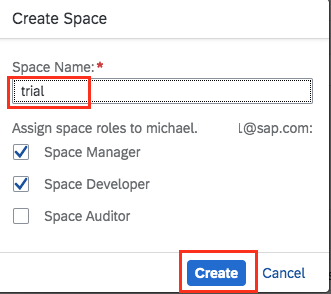
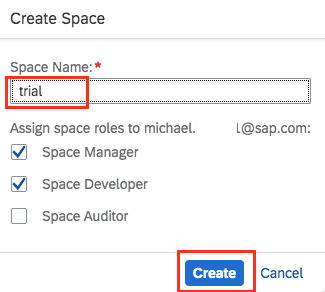
Update README; improve image cropping

diff --git a/README.md b/README.md
@@ -67,7 +67,7 @@ In the resulting popup, enter a **Display Name**,
 select the **Europe (Frankfurt) - AWS** region and enter
 a valid **subdomain** name. The name should be unique, so it is OK
 to be creative here. Once you entered all details, click the
-"create" button.
+"Create" button.
 
 ![SCP new subaccount details](images/scp_new_subaccount_details.png)
 
@@ -80,7 +80,7 @@ Click the "Enable Cloud Foundry" button.
 
 ![SCP enable Cloud Foundry](images/scp_enable_cloud_foundry.png)
 
-Accept the default org name:
+In the resulting popup, accept the default org name and click the "Create" button.
 
 ![SCP Cloud Foundry org name](images/scp_cloud_foundry_org_name.png)
 
@@ -88,7 +88,7 @@ Once Cloud Foundry is available, click the "Create Space" button:
 
 ![SCP Create Space](images/scp_create_space.png)
 
-Enter a name for the new Cloud Foundry space. "Trial" is a good choice.
+Enter a name for the new Cloud Foundry space. "trial" is a good choice.
 Then, click "Create".
 
 ![SCP Create Space Details](images/scp_create_space_details.png)
